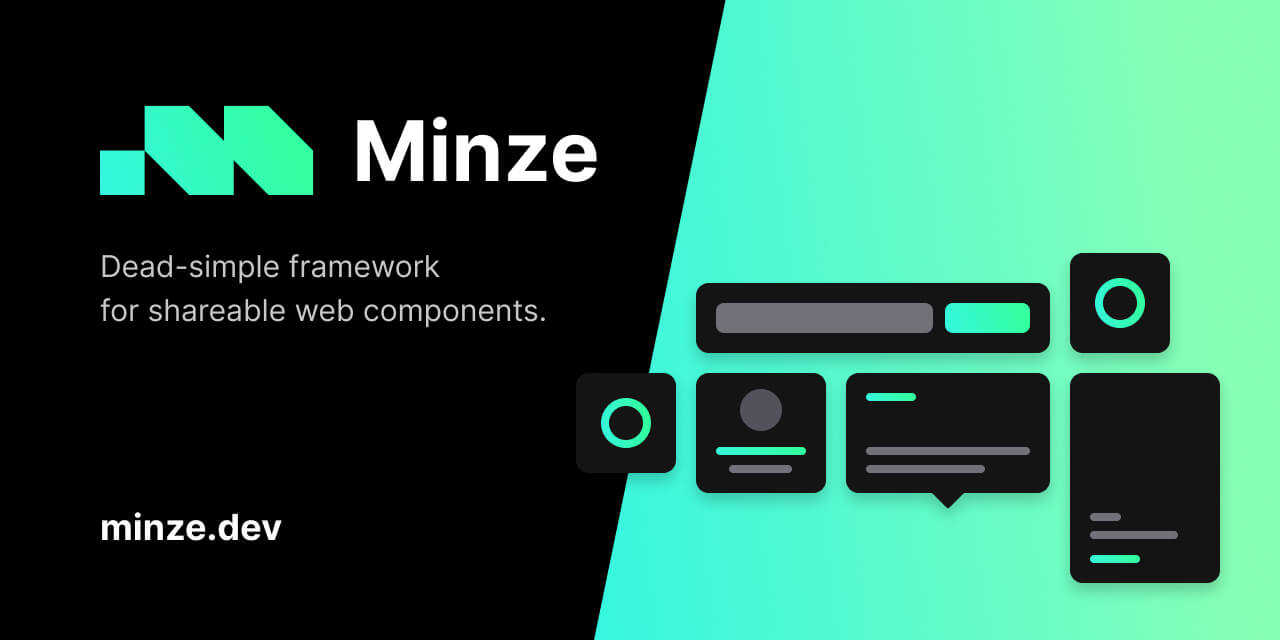
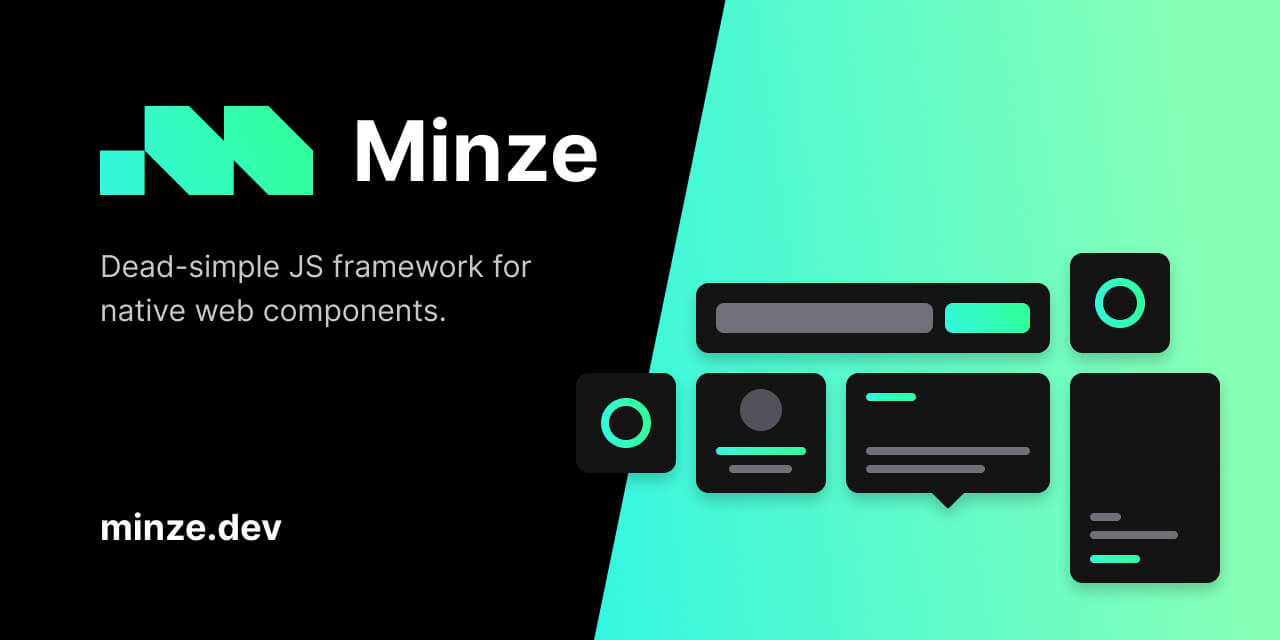
docs: update description

Changed region(s): [[0.0625, 0.4688, 0.4375, 0.5], [0.2188, 0.375, 0.4375, 0.4375]]

diff --git a/docs/.vitepress/config.js b/docs/.vitepress/config.js
@@ -4,7 +4,7 @@ const isProduction = process.env.NODE_ENV
 
 const META_URL = 'https://minze.dev'
 const META_TITLE = 'Minze'
-const META_DESCRIPTION = 'Dead-simple framework for shareable web components.'
+const META_DESCRIPTION = 'Dead-simple JS framework for native web components.'
 const META_IMAGE = 'https://minze.dev/social.jpg'
 
 const darkMode = `

diff --git a/docs/guide/introduction.md b/docs/guide/introduction.md
@@ -1,6 +1,6 @@
 # Introduction
 
-> Minze is a dead-simple framework for shareable web components.
+> Minze is a dead-simple JS framework for native web components.
 
 ## Overview
 
